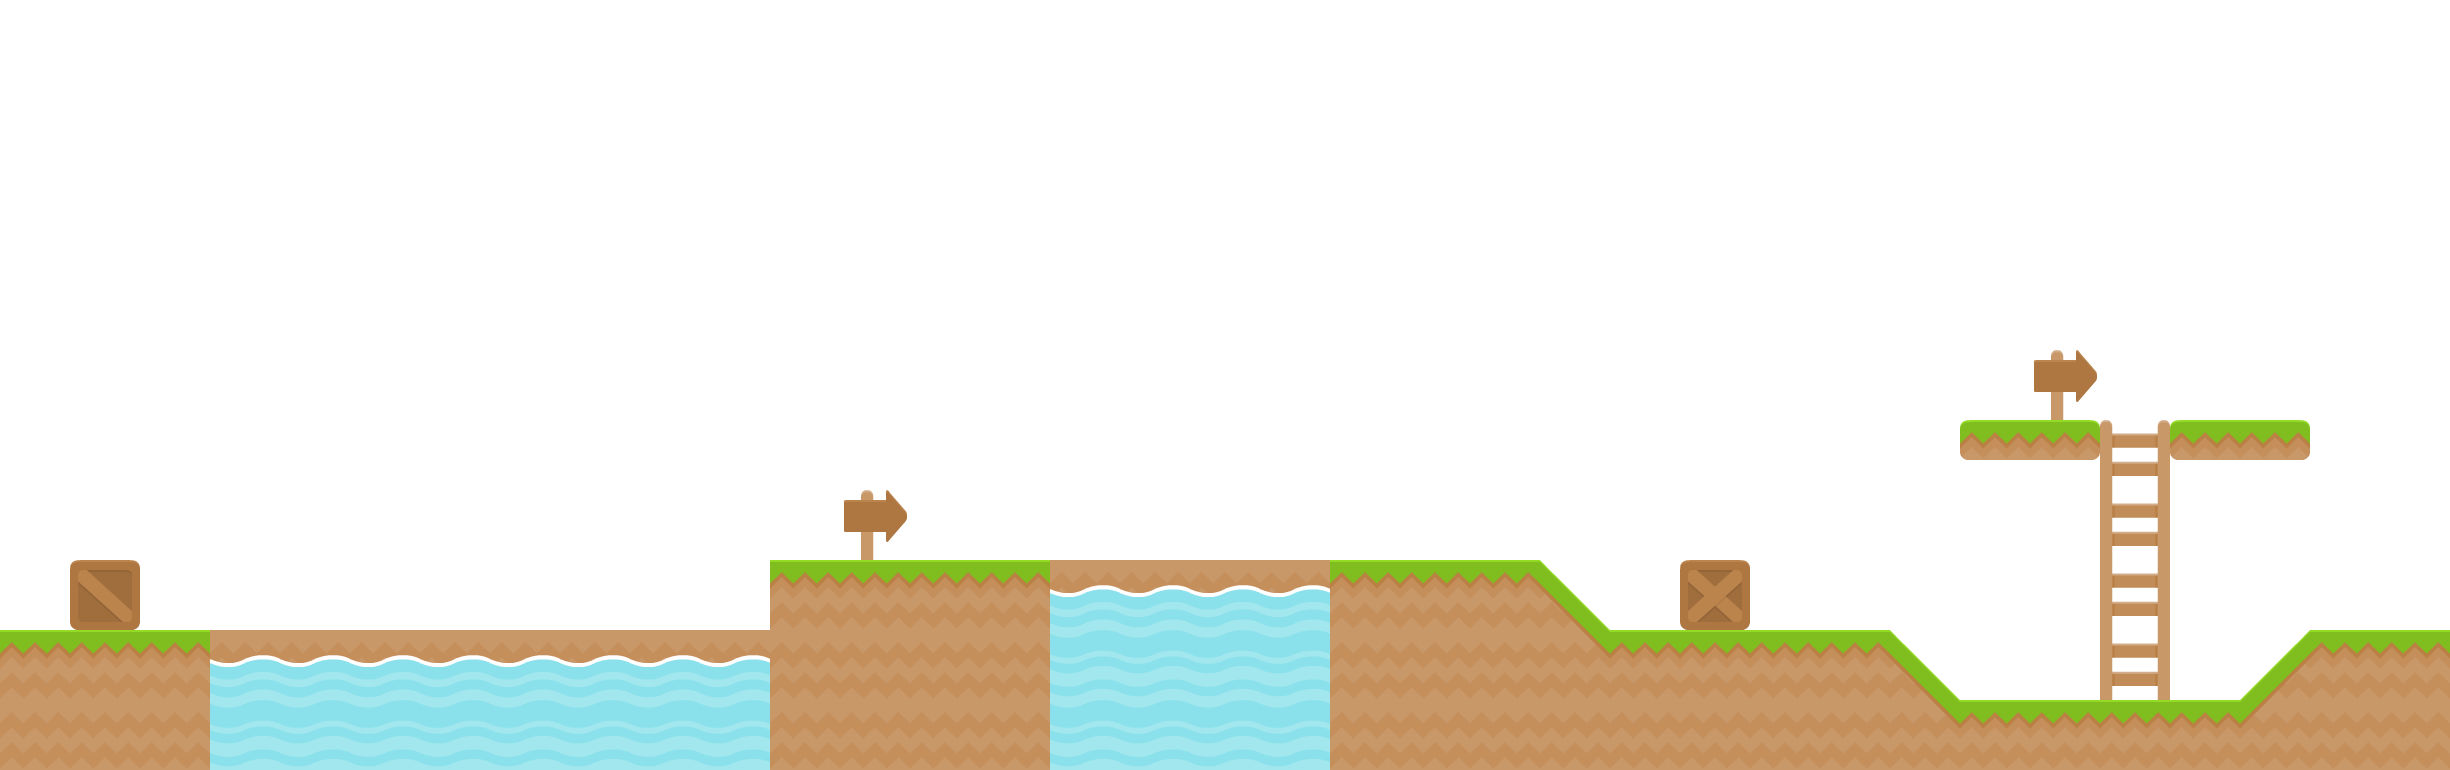
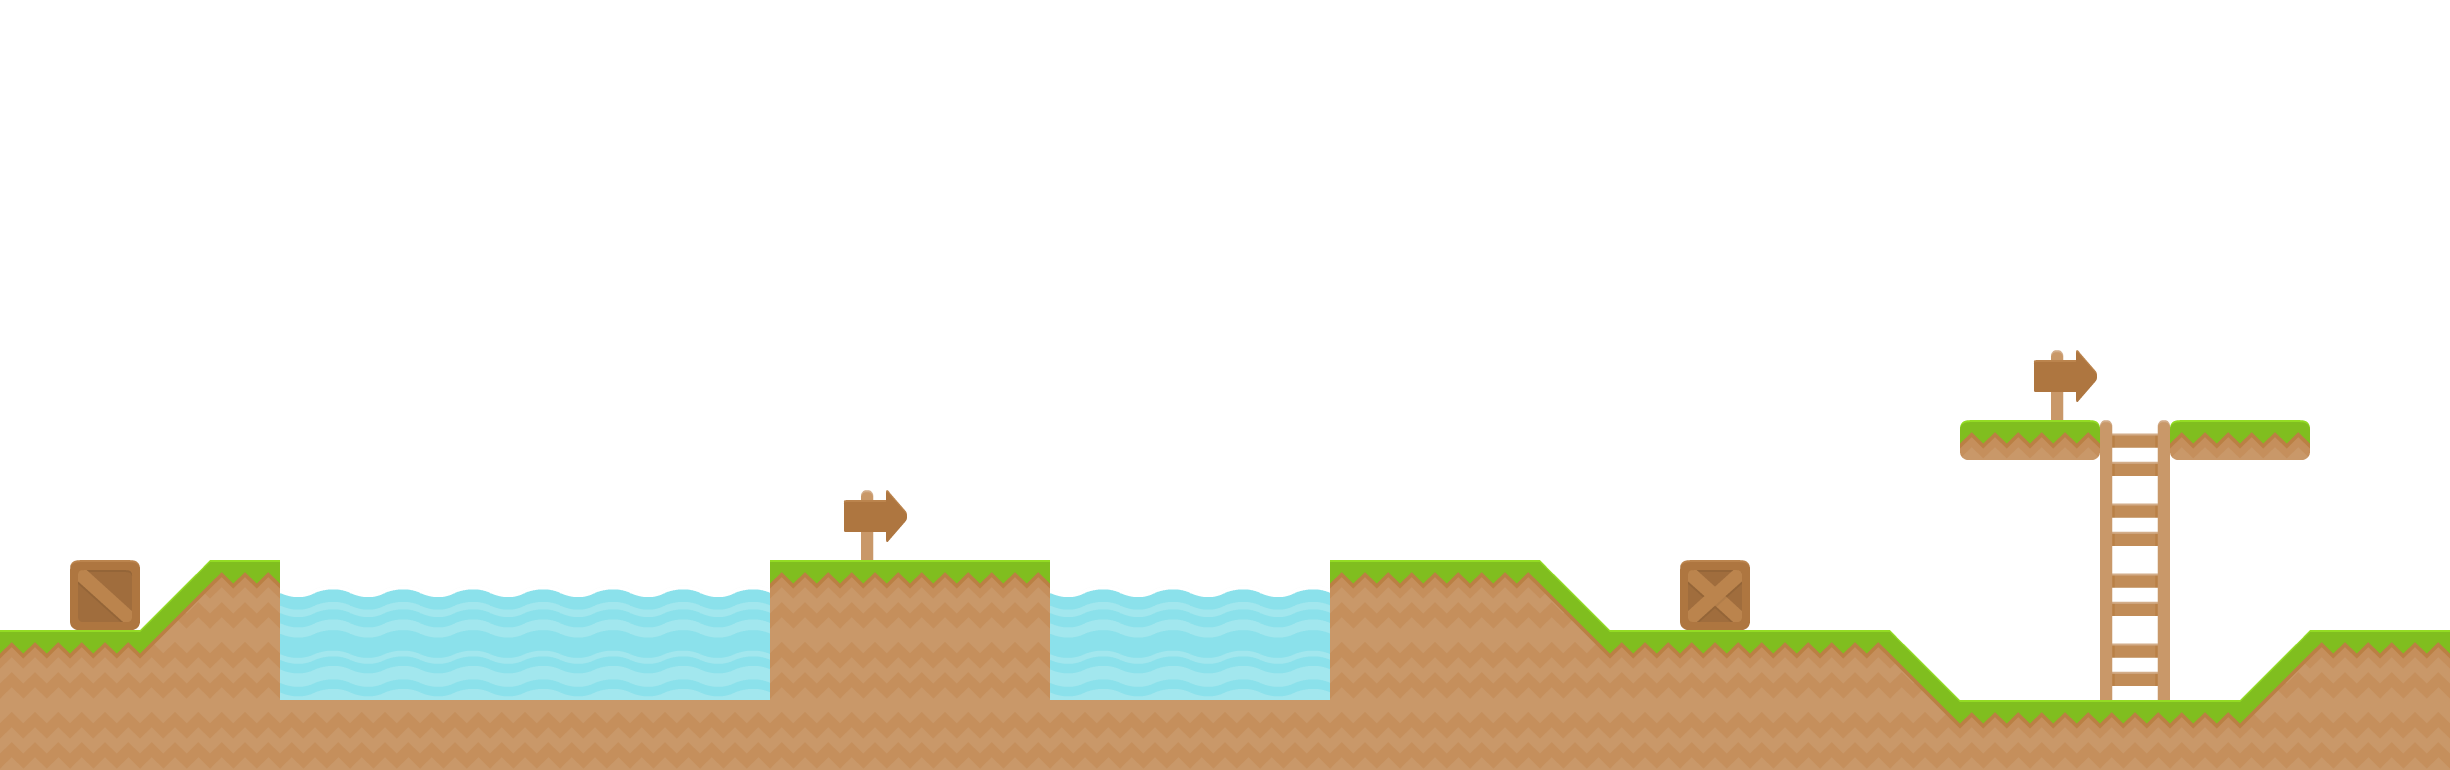
Add registry for title scene backgrounds and levels

Changed region(s): [[0.062, 0.7169, 0.3412, 1.0], [0.4033, 0.9039, 0.5584, 1.0], [0.4033, 0.7169, 0.5584, 0.7792]]

diff --git a/src/scenes/TitleScene.js b/src/scenes/TitleScene.js
@@ -7,22 +7,22 @@ export default class TitleScene extends Phaser.Scene {
     }
 
     addBackground() {
-        console.log('Adding background.');
-
         // Get the screen size of the game.
         const height = this.cameras.main.height;
         
         let startX, tweenDuration, beforeBackground;
 
+        // Get the starting position of the background image.
         if (this.backgrounds.length === 0) {
             startX = 0;
         } else {
             beforeBackground = this.backgrounds[this.backgrounds.length - 1];
+            // Multiply by the chosen constant decimal in order to stop
+            // gaps from appearing between the background images.
             startX = beforeBackground.getTopRight().x - (0.0336 * TITLE_SCENE.backgroundSpeed);
         }
 
-        let backgroundNumber = Phaser.Math.Between(1, 2).toString();
-        let background = this.add.image(startX, height, 'backgroundTitle' + backgroundNumber);
+        let background = this.add.image(startX, height, Phaser.Math.RND.pick(this.registry.titleBackgrounds));
         background.setOrigin(0, 1);
         // Place the background image behind everything else.
         background.setDepth(-1);
@@ -31,68 +31,23 @@ export default class TitleScene extends Phaser.Scene {
             tweenDuration = (background.displayWidth / TITLE_SCENE.backgroundSpeed) * 1000;
         } else {
             tweenDuration = ((background.displayWidth + beforeBackground.getTopRight().x) / TITLE_SCENE.backgroundSpeed) * 1000;
-
-            // Make sure the background image is connected correctly after a bit of time.
-            // this.time.delayedCall(200, () => {
-            //     background.setX(beforeBackground.getTopRight().x);
-            //     console.log('delayed', background.x, beforeBackground.getTopRight().x);
-            // }, [], this);
-
-            // this.time.delayedCall(300, () => {
-            //     console.log('delayed 2', background.x, beforeBackground.getTopRight().x);
-            // }, [], this);
         }
 
-        let backgroundTween = this.tweens.add({
+        this.tweens.add({
             targets: background,
             x: -background.displayWidth,
             ease: Phaser.Math.Easing.Linear,
             // Time = distance / speed. Multiply by 1000 to go from seconds to milliseconds.
             duration: tweenDuration,
-            // speed: TITLE_SCENE.backgroundSpeed,
-            // completeDelay: 1000,
             onComplete: () => {
                 this.backgrounds.shift();
                 background.destroy();
-
                 // Add another background to the scrolling backgrounds.
                 this.addBackground();
             },
         });
 
-        // if (this.backgrounds.length !== 0) {
-        //     this.time.delayedCall(200, () => {
-        //         console.log(backgroundTween.elapsed);
-        //         backgroundTween.elapsed += (background.getTopLeft().x - beforeBackground.getTopRight().x) / TITLE_SCENE.backgroundSpeed;
-        //         console.log(backgroundTween.elapsed);
-        //     }, [], this);
-        // }
-
         this.backgrounds.push(background);
-
-
-
-        // let beforeBackground = this.backgrounds[0];
-
-        // let newBackground = this.add.image(beforeBackground.displayWidth, height, 'backgroundTitle2');
-        // newBackground.setOrigin(0, 1);
-
-        // let tweenDuration = ((newBackground.displayWidth + beforeBackground.displayWidth) / TITLE_SCENE.backgroundSpeed) * 1000;
-        // this.tweens.add({
-        //     targets: newBackground,
-        //     x: -newBackground.displayWidth,
-        //     ease: Phaser.Math.Easing.Linear,
-        //     // Time = distance / speed. Multiply by 1000 to go from seconds to milliseconds.
-        //     duration: tweenDuration,
-        //     onComplete: () => {
-        //         this.backgrounds.shift();
-        //         newBackground.destroy();
-
-        //         // Add another background to the scrolling backgrounds.
-        //         this.addBackground();
-        //     },
-        // });
-        // this.backgrounds.push(newBackground);
     }
 
     create() {
@@ -117,33 +72,6 @@ export default class TitleScene extends Phaser.Scene {
         // Background color.
         this.cameras.main.setBackgroundColor(COLORS.background);
 
-        // The background image of world tiles.
-        // this.background = this.add.image(width / 2, height, 'backgroundTitle');
-        // this.background.setOrigin(0.5, 1);
-
-        // The background image of world tiles.
-        // this.backgrounds = []
-        // let startBackground = this.add.image(0, height, 'backgroundTitle1');
-        // startBackground.setOrigin(0, 1);
-
-        // let tweenDuration = (startBackground.displayWidth / TITLE_SCENE.backgroundSpeed) * 1000;
-        // this.tweens.add({
-        //     targets: startBackground,
-        //     x: -startBackground.displayWidth,
-        //     ease: Phaser.Math.Easing.Linear,
-        //     // Time = distance / speed. Multiply by 1000 to go from seconds to milliseconds.
-        //     duration: tweenDuration,
-        //     onComplete: () => {
-        //         // Remove the finished background.
-        //         this.backgrounds.shift();
-        //         startBackground.destroy();
-
-        //         // Add another background to the scrolling backgrounds.
-        //         this.addBackground();
-        //     },
-        // });
-        // this.backgrounds.push(startBackground);
-
         // Add another background to the scrolling backgrounds.
         this.backgrounds = []
         this.addBackground();
@@ -160,7 +88,8 @@ export default class TitleScene extends Phaser.Scene {
             'greenbuttonup',
             'greenbuttondown',
             'Play',
-            SCENE_KEYS.game);
+            SCENE_KEYS.game,
+            {levelKey: 'level1'});
 
         this.backButton = new Button(
             this,
@@ -188,14 +117,6 @@ export default class TitleScene extends Phaser.Scene {
             'greenbuttondown',
             'Credits',
             SCENE_KEYS.credits);
-
-        this.keyB = this.input.keyboard.addKey(Phaser.Input.Keyboard.KeyCodes.B);
-    }
-
-    update(time, delta) {
-        if (Phaser.Input.Keyboard.JustDown(this.keyB)) {
-            console.log('Delta:', delta);
-        }
     }
 
     resize() {

diff --git a/src/scenes/CreditsScene.js b/src/scenes/CreditsScene.js
@@ -29,37 +29,47 @@ export default class CreditsScene extends Phaser.Scene {
         // this.logo = this.add.image(width / 2, TITLE_SCENE.logo.offset.y, 'logo');
         // this.logo.setScale(0.4, 0.4);
 
-        this.creditsText = this.add.text(0, 0, 'Credits', { font: '64px ' + this.font, fill: COLORS.text });
-        this.madeByText = this.add.text(0, 0, 'Created By: Ewan Brinkman', { font: '48px ' + this.font, fill: COLORS.text });
+        this.introCreditsText = this.add.text(0, 0, 'Credits', { font: '72px ' + this.font, fill: COLORS.text });
+        this.mainCreditsTextTitle = this.add.text(0, 0, 'Creator', { font: '64px ' + this.font, fill: COLORS.text });
+        this.mainCreditsTextBody = this.add.text(0, 0, 'Ewan Brinkman', { font: '48px ' + this.font, fill: COLORS.text });
+
+        this.assetsCreditsTextTitle = this.add.text(0, 0, 'Assets', { font: '64px ' + this.font, fill: COLORS.text });
+        let assetsText = 'Tile Images: Kenney (https://www.kenney.nl/)'
+        assetsText += '\nPlayer Images: Kenney (https://www.kenney.nl/)'
+        assetsText += '\nUser Interface Images: Kenney (https://www.kenney.nl/)'
+        assetsText += '\nFont: Kenney (https://www.kenney.nl/)'
+        this.assetsCreditsTextBody = this.add.text(0, 0, assetsText, { font: '48px ' + this.font, fill: COLORS.text });
+
+        this.creditsTexts = [
+            this.introCreditsText,
+            this.mainCreditsTextTitle,
+            this.mainCreditsTextBody,
+            this.assetsCreditsTextTitle,
+            this.assetsCreditsTextBody]
         
         this.zone = this.add.zone(width / 2, height / 2, width, height);
 
-        Phaser.Display.Align.In.Center(
-            this.creditsText,
-            this.zone
-        );
+        this.creditsTexts.forEach(creditsText => {
+            Phaser.Display.Align.In.Center(
+                creditsText,
+                this.zone
+            );
+        })
 
-        Phaser.Display.Align.In.Center(
-            this.madeByText,
-            this.zone
-        );
+        this.mainCreditsTextBody.setY(height);
 
-        this.madeByText.setY(height);
-
-        this.creditsTextTween = this.tweens.add({
-            targets: this.creditsText,
-            y: -this.creditsText.displayHeight,
+        this.tweens.add({
+            targets: this.introCreditsText,
+            y: -this.introCreditsText.displayHeight,
             ease: Phaser.Math.Easing.Linear,
             // Time = distance / speed. Multiply by 1000 to go from seconds to milliseconds.
             duration: ((height / 2 + 100) / CREDITS_SCENE.textSpeed) * 1000,
             delay: CREDITS_SCENE.startDelay,
         });
 
-        console.log
-
-        this.madeByTextTween = this.tweens.add({
-            targets: this.madeByText,
-            y: -this.madeByText.displayHeight,
+        this.tweens.add({
+            targets: this.mainCreditsTextBody,
+            y: -this.mainCreditsTextBody.displayHeight,
             ease: Phaser.Math.Easing.Linear,
             // Time = distance / speed. Multiply by 1000 to go from seconds to milliseconds.
             duration: ((height + 100) / CREDITS_SCENE.textSpeed) * 1000,
@@ -77,5 +87,6 @@ export default class CreditsScene extends Phaser.Scene {
 
         // Set objects to be in the correct position with the new
         // screen size.
+        this.background.setPosition(width / 2, height);
     }
 };

diff --git a/src/scenes/PreloaderScene.js b/src/scenes/PreloaderScene.js
@@ -116,7 +116,9 @@ export default class PreloaderScene extends Phaser.Scene {
         // tile-extruder --tileWidth 70 --tileHeight 70 --spacing 2 --input ./tiles.png --output ./tiles-extruded.png
         // To load into tiled, use a margin of 1px (1px plus the original 0px) and a spacing of 4px (2px plus the original 2px).
         // Load maps made with Tiled in JSON format.
-        this.load.tilemapTiledJSON('map', 'assets/maps/levels/level1.json');
+        this.registry.levels.forEach(filename => {
+            this.load.tilemapTiledJSON(filename, 'assets/maps/levels/' + filename + '.json');
+        });
         // Tiles in spritesheet.
         this.load.spritesheet('tiles', 'assets/images/spritesheets/tiles.png', {frameWidth: TILES.width, frameHeight: TILES.height, margin: 1, spacing: 4});
         // Player images.
@@ -127,8 +129,9 @@ export default class PreloaderScene extends Phaser.Scene {
         this.load.image('greenbuttondown', 'assets/images/ui/greenbuttondown.png');
 
         // Load background images.
-        this.load.image('backgroundTitle1', 'assets/images/backgrounds/title/backgroundTitle1.png');
-        this.load.image('backgroundTitle2', 'assets/images/backgrounds/title/backgroundTitle2.png');
+        this.registry.titleBackgrounds.forEach(filename => {
+            this.load.image(filename, 'assets/images/backgrounds/title/' + filename + '.png');
+        });
         this.load.image('backgroundCredits', 'assets/images/backgrounds/credits/backgroundCredits.png');
 
         // For testing the loading bar.

diff --git a/src/objects/Button.js b/src/objects/Button.js
@@ -1,12 +1,14 @@
 import { FONT, COLORS } from "../constants.js";
 
 export default class Button extends Phaser.GameObjects.Container {
-    constructor(scene, x, y, imageUp, imageDown, text, targetScene) {
+    constructor(scene, x, y, imageUp, imageDown, text, targetScene, sceneData = null) {
         super(scene);
 
         this.scene = scene;
         this.x = x;
         this.y = y;
+
+        this.sceneData = sceneData;
 
         this.font = FONT.main;
 
@@ -24,7 +26,11 @@ export default class Button extends Phaser.GameObjects.Container {
         this.add(this.text);
 
         this.button.on('pointerdown', () => {
-            this.scene.scene.start(targetScene);
+            if (this.sceneData) {
+                this.scene.scene.start(targetScene, sceneData);
+            } else {
+                this.scene.scene.start(targetScene);
+            }
         });
 
         this.button.on('pointerover', () => {

diff --git a/src/scenes/BootScene.js b/src/scenes/BootScene.js
@@ -1,4 +1,4 @@
-import { SCENE_KEYS, BASE_PLAYER } from '../constants.js';
+import { SCENE_KEYS, BASE_PLAYER, MAPS } from '../constants.js';
 
 export default class BootScene extends Phaser.Scene {
     constructor() {
@@ -15,6 +15,18 @@ export default class BootScene extends Phaser.Scene {
         this.registry.player = {
             playerType: BASE_PLAYER.playerType
         }
+        // Get a list of all background title files.
+        this.registry.titleBackgrounds = []
+        for (let i = 1; i <= (MAPS.titleAmount); i++) {
+            this.registry.titleBackgrounds.push('backgroundTitle' + i);
+        }
+
+        // Get a list of all level files.
+        this.registry.levels = []
+        for (let i = 1; i <= (MAPS.levelAmount); i++) {
+            this.registry.levels.push('level' + i);
+        }
+
         // Start the loading screen.
         this.scene.start(SCENE_KEYS.preloader);
     }

diff --git a/src/constants.js b/src/constants.js
@@ -21,6 +21,16 @@ export const COLORS = {
     text: '#bc8142'
 }
 
+export const TILES = {
+    width: 70,
+    height: 70
+}
+
+export const MAPS = {
+    titleAmount: 3,
+    levelAmount: 1
+}
+
 export const PRELOADER_SCENE = {
     logo: {
         offset: {
@@ -77,13 +87,12 @@ export const TITLE_SCENE = {
             x: 350
         }
     },
-    // backgroundSpeed: 50
-    backgroundSpeed: 1000
+    backgroundSpeed: 50
 }
 
 export const CREDITS_SCENE = {
     textSpeed: 200,
-    startDelay: 500
+    startDelay: 750
 }
 
 export const BASE_PLAYER = {
@@ -106,11 +115,6 @@ export const BASE_PLAYER = {
         y: 0
     },
     bounce: 0
-}
-
-export const TILES = {
-    width: 70,
-    height: 70
 }
 
 export const PLAYER_SQUARE = {

diff --git a/src/scenes/GameScene.js b/src/scenes/GameScene.js
@@ -10,9 +10,13 @@ export default class GameScene extends Phaser.Scene {
         super(SCENE_KEYS.game);
     }
 
+    init(data) {
+        this.levelKey = data.levelKey;
+    }
+
     create() {
         // Load the map.
-        this.map = this.make.tilemap({key: 'map'});
+        this.map = this.make.tilemap({key: this.levelKey});
         
         // Tiles for the block layer.
         this.tiles = this.map.addTilesetImage('tiles', 'tiles', TILES.width, TILES.height, 1, 4);
